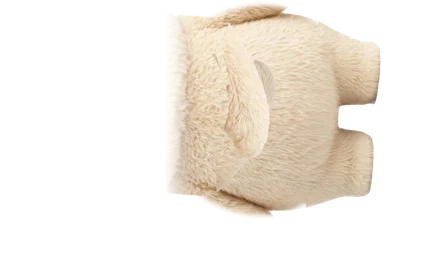
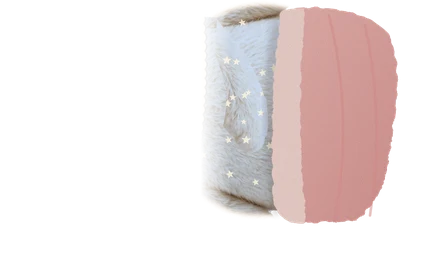
Sleeping Punchy: star pajamas, fuzzy blanket, bottom arm under head, top arm on tummy
Claude-Session: https://claude.ai/code/session_015zikV9PqUBiyz3XPGeiexa

diff --git a/index.html b/index.html
@@ -3779,7 +3779,7 @@ function plushSvg(k, label) { return '<svg viewBox="0 0 200 200" role="img" aria
     var tabTop = shown ? tb.getBoundingClientRect().top : hh;
     document.documentElement.style.setProperty("--tabh", (shown ? hh - tabTop : 0) + "px");
     document.body.setAttribute("data-dock", shown ? "1" : "0");
-    var sw = w <= 600 ? 96 : 124, sh = Math.round(sw * 278 / 440), pw = punchy.pocket ? sw : size, ph = punchy.pocket ? sh : size;
+    var sw = w <= 600 ? 96 : 124, sh = Math.round(sw * 272 / 440), pw = punchy.pocket ? sw : size, ph = punchy.pocket ? sh : size;
     document.documentElement.style.setProperty("--dockw", pw + "px");
     var x = w - pw - 6, y = shown ? hh - ph - 4 : hh - ph - 14;
     var more = shown && tb.querySelector("button[data-tab=more]");
